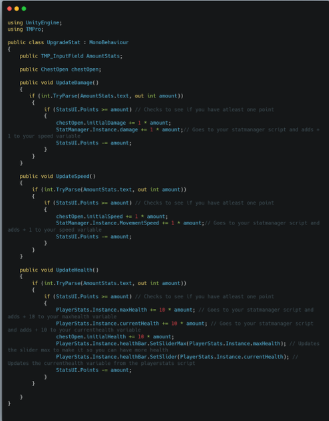
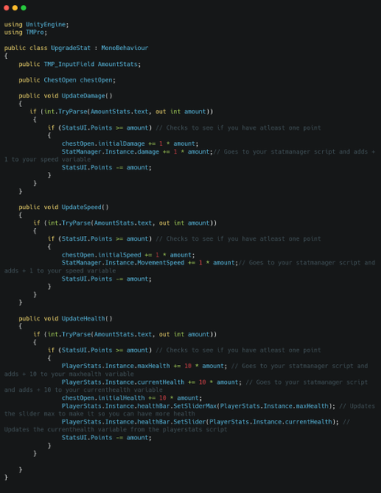
Put the Project One code screenshot on the left, unframed, beside its text
Claude-Session: https://claude.ai/code/session_01Vg6Eu6cSFq7L5byLZepDzB

diff --git a/projects/project-1.html b/projects/project-1.html
@@ -6,7 +6,7 @@
     <meta name="theme-color" content="#43006c">
     <title>Project One | Daniel Worden</title>
     <meta name="description" content="Project one by Daniel Worden">
-    <link rel="stylesheet" href="../css/styles.css?v=20261013d">
+    <link rel="stylesheet" href="../css/styles.css?v=20261013e">
   </head>
   <body>
     <canvas class="sakura-canvas" aria-hidden="true"></canvas>
@@ -36,22 +36,22 @@
 
     <main>
       <section class="panel project-page">
-        <article class="project-detail">
-          <div class="project-preview preview-one">
-            <img class="project-shot" src="../images/projects/upgrade-stat-code.png" width="329" height="421"
-              alt="C# UpgradeStat script for Unity that spends stat points to upgrade damage, speed and health">
+        <article class="project-detail project-detail--split">
+          <img class="project-shot" src="../images/projects/upgrade-stat-code.png" width="381" height="493"
+            alt="C# UpgradeStat script for Unity that spends stat points to upgrade damage, speed and health">
+          <div class="project-text">
+            <h1>Project One</h1>
+            <p>
+              Add a description of this project here: what it does, what you built it with and what
+              you learned making it.
+            </p>
+            <a class="project-link" href="../index.html#work"><span>←</span> Back to projects</a>
           </div>
-          <h1>Project One</h1>
-          <p>
-            Add a description of this project here: what it does, what you built it with and what
-            you learned making it.
-          </p>
-          <a class="project-link" href="../index.html#work"><span>←</span> Back to projects</a>
         </article>
       </section>
     </main>
 
-    <script src="../js/theme.js?v=20261013d"></script>
-    <script src="../js/sakura.js?v=20261013d"></script>
+    <script src="../js/theme.js?v=20261013e"></script>
+    <script src="../js/sakura.js?v=20261013e"></script>
   </body>
 </html>

diff --git a/css/styles.css b/css/styles.css
@@ -495,6 +495,35 @@ main {
   white-space: nowrap;
 }
 
+/* A project page with a screenshot: the picture on the left, unframed, and the text beside it. */
+.project-detail--split {
+  width: min(1100px, 90vw);
+  padding: 1.6rem 2.2rem;
+  flex-direction: row;
+  gap: 2.6rem;
+  text-align: left;
+}
+
+.project-detail--split .project-shot {
+  flex: none;
+  max-height: 70vh;
+}
+
+.project-text {
+  flex: 1;
+  display: flex;
+  flex-direction: column;
+  align-items: flex-start;
+}
+
+.project-detail--split h1 {
+  margin-top: 0;
+}
+
+.project-detail--split p {
+  margin-left: 0;
+}
+
 .contact-panel {
   display: flex;
   flex-direction: column;
@@ -1023,6 +1052,21 @@ main {
   .settings-button {
     width: 42px;
     height: 42px;
+  }
+
+  .project-detail--split {
+    flex-direction: column;
+    padding: 1.2rem 1.1rem 1.6rem;
+    gap: 1.2rem;
+    text-align: center;
+  }
+
+  .project-detail--split .project-text {
+    align-items: center;
+  }
+
+  .project-detail--split p {
+    margin-left: auto;
   }
 
   .hero-card {

diff --git a/index.html b/index.html
@@ -6,7 +6,7 @@
     <meta name="theme-color" content="#43006c">
     <title>Portfolio | Daniel Worden</title>
     <meta name="description" content="Daniel Worden portfolio homepage">
-    <link rel="stylesheet" href="css/styles.css?v=20261013d">
+    <link rel="stylesheet" href="css/styles.css?v=20261013e">
   </head>
   <body>
     <canvas class="sakura-canvas" aria-hidden="true"></canvas>
@@ -256,9 +256,9 @@
       <audio class="now-playing-audio" preload="none"></audio>
     </aside>
 
-    <script src="js/theme.js?v=20261013d"></script>
-    <script src="js/script.js?v=20261013d"></script>
-    <script src="js/sakura.js?v=20261013d"></script>
-    <script src="js/music.js?v=20261013d"></script>
+    <script src="js/theme.js?v=20261013e"></script>
+    <script src="js/script.js?v=20261013e"></script>
+    <script src="js/sakura.js?v=20261013e"></script>
+    <script src="js/music.js?v=20261013e"></script>
   </body>
 </html>

diff --git a/projects/project-3.html b/projects/project-3.html
@@ -6,7 +6,7 @@
     <meta name="theme-color" content="#43006c">
     <title>Project Three | Daniel Worden</title>
     <meta name="description" content="Project three by Daniel Worden">
-    <link rel="stylesheet" href="../css/styles.css?v=20261013d">
+    <link rel="stylesheet" href="../css/styles.css?v=20261013e">
   </head>
   <body>
     <canvas class="sakura-canvas" aria-hidden="true"></canvas>
@@ -59,7 +59,7 @@
       </section>
     </main>
 
-    <script src="../js/theme.js?v=20261013d"></script>
-    <script src="../js/sakura.js?v=20261013d"></script>
+    <script src="../js/theme.js?v=20261013e"></script>
+    <script src="../js/sakura.js?v=20261013e"></script>
   </body>
 </html>

diff --git a/projects/project-4.html b/projects/project-4.html
@@ -6,7 +6,7 @@
     <meta name="theme-color" content="#43006c">
     <title>Project Four | Daniel Worden</title>
     <meta name="description" content="Project four by Daniel Worden">
-    <link rel="stylesheet" href="../css/styles.css?v=20261013d">
+    <link rel="stylesheet" href="../css/styles.css?v=20261013e">
   </head>
   <body>
     <canvas class="sakura-canvas" aria-hidden="true"></canvas>
@@ -59,7 +59,7 @@
       </section>
     </main>
 
-    <script src="../js/theme.js?v=20261013d"></script>
-    <script src="../js/sakura.js?v=20261013d"></script>
+    <script src="../js/theme.js?v=20261013e"></script>
+    <script src="../js/sakura.js?v=20261013e"></script>
   </body>
 </html>

diff --git a/projects/project-5.html b/projects/project-5.html
@@ -6,7 +6,7 @@
     <meta name="theme-color" content="#43006c">
     <title>Project Five | Daniel Worden</title>
     <meta name="description" content="Project five by Daniel Worden">
-    <link rel="stylesheet" href="../css/styles.css?v=20261013d">
+    <link rel="stylesheet" href="../css/styles.css?v=20261013e">
   </head>
   <body>
     <canvas class="sakura-canvas" aria-hidden="true"></canvas>
@@ -59,7 +59,7 @@
       </section>
     </main>
 
-    <script src="../js/theme.js?v=20261013d"></script>
-    <script src="../js/sakura.js?v=20261013d"></script>
+    <script src="../js/theme.js?v=20261013e"></script>
+    <script src="../js/sakura.js?v=20261013e"></script>
   </body>
 </html>

diff --git a/projects/project-2.html b/projects/project-2.html
@@ -6,7 +6,7 @@
     <meta name="theme-color" content="#43006c">
     <title>Project Two | Daniel Worden</title>
     <meta name="description" content="Project two by Daniel Worden">
-    <link rel="stylesheet" href="../css/styles.css?v=20261013d">
+    <link rel="stylesheet" href="../css/styles.css?v=20261013e">
   </head>
   <body>
     <canvas class="sakura-canvas" aria-hidden="true"></canvas>
@@ -59,7 +59,7 @@
       </section>
     </main>
 
-    <script src="../js/theme.js?v=20261013d"></script>
-    <script src="../js/sakura.js?v=20261013d"></script>
+    <script src="../js/theme.js?v=20261013e"></script>
+    <script src="../js/sakura.js?v=20261013e"></script>
   </body>
 </html>

diff --git a/projects/project-6.html b/projects/project-6.html
@@ -6,7 +6,7 @@
     <meta name="theme-color" content="#43006c">
     <title>Project Six | Daniel Worden</title>
     <meta name="description" content="Project six by Daniel Worden">
-    <link rel="stylesheet" href="../css/styles.css?v=20261013d">
+    <link rel="stylesheet" href="../css/styles.css?v=20261013e">
   </head>
   <body>
     <canvas class="sakura-canvas" aria-hidden="true"></canvas>
@@ -59,7 +59,7 @@
       </section>
     </main>
 
-    <script src="../js/theme.js?v=20261013d"></script>
-    <script src="../js/sakura.js?v=20261013d"></script>
+    <script src="../js/theme.js?v=20261013e"></script>
+    <script src="../js/sakura.js?v=20261013e"></script>
   </body>
 </html>
